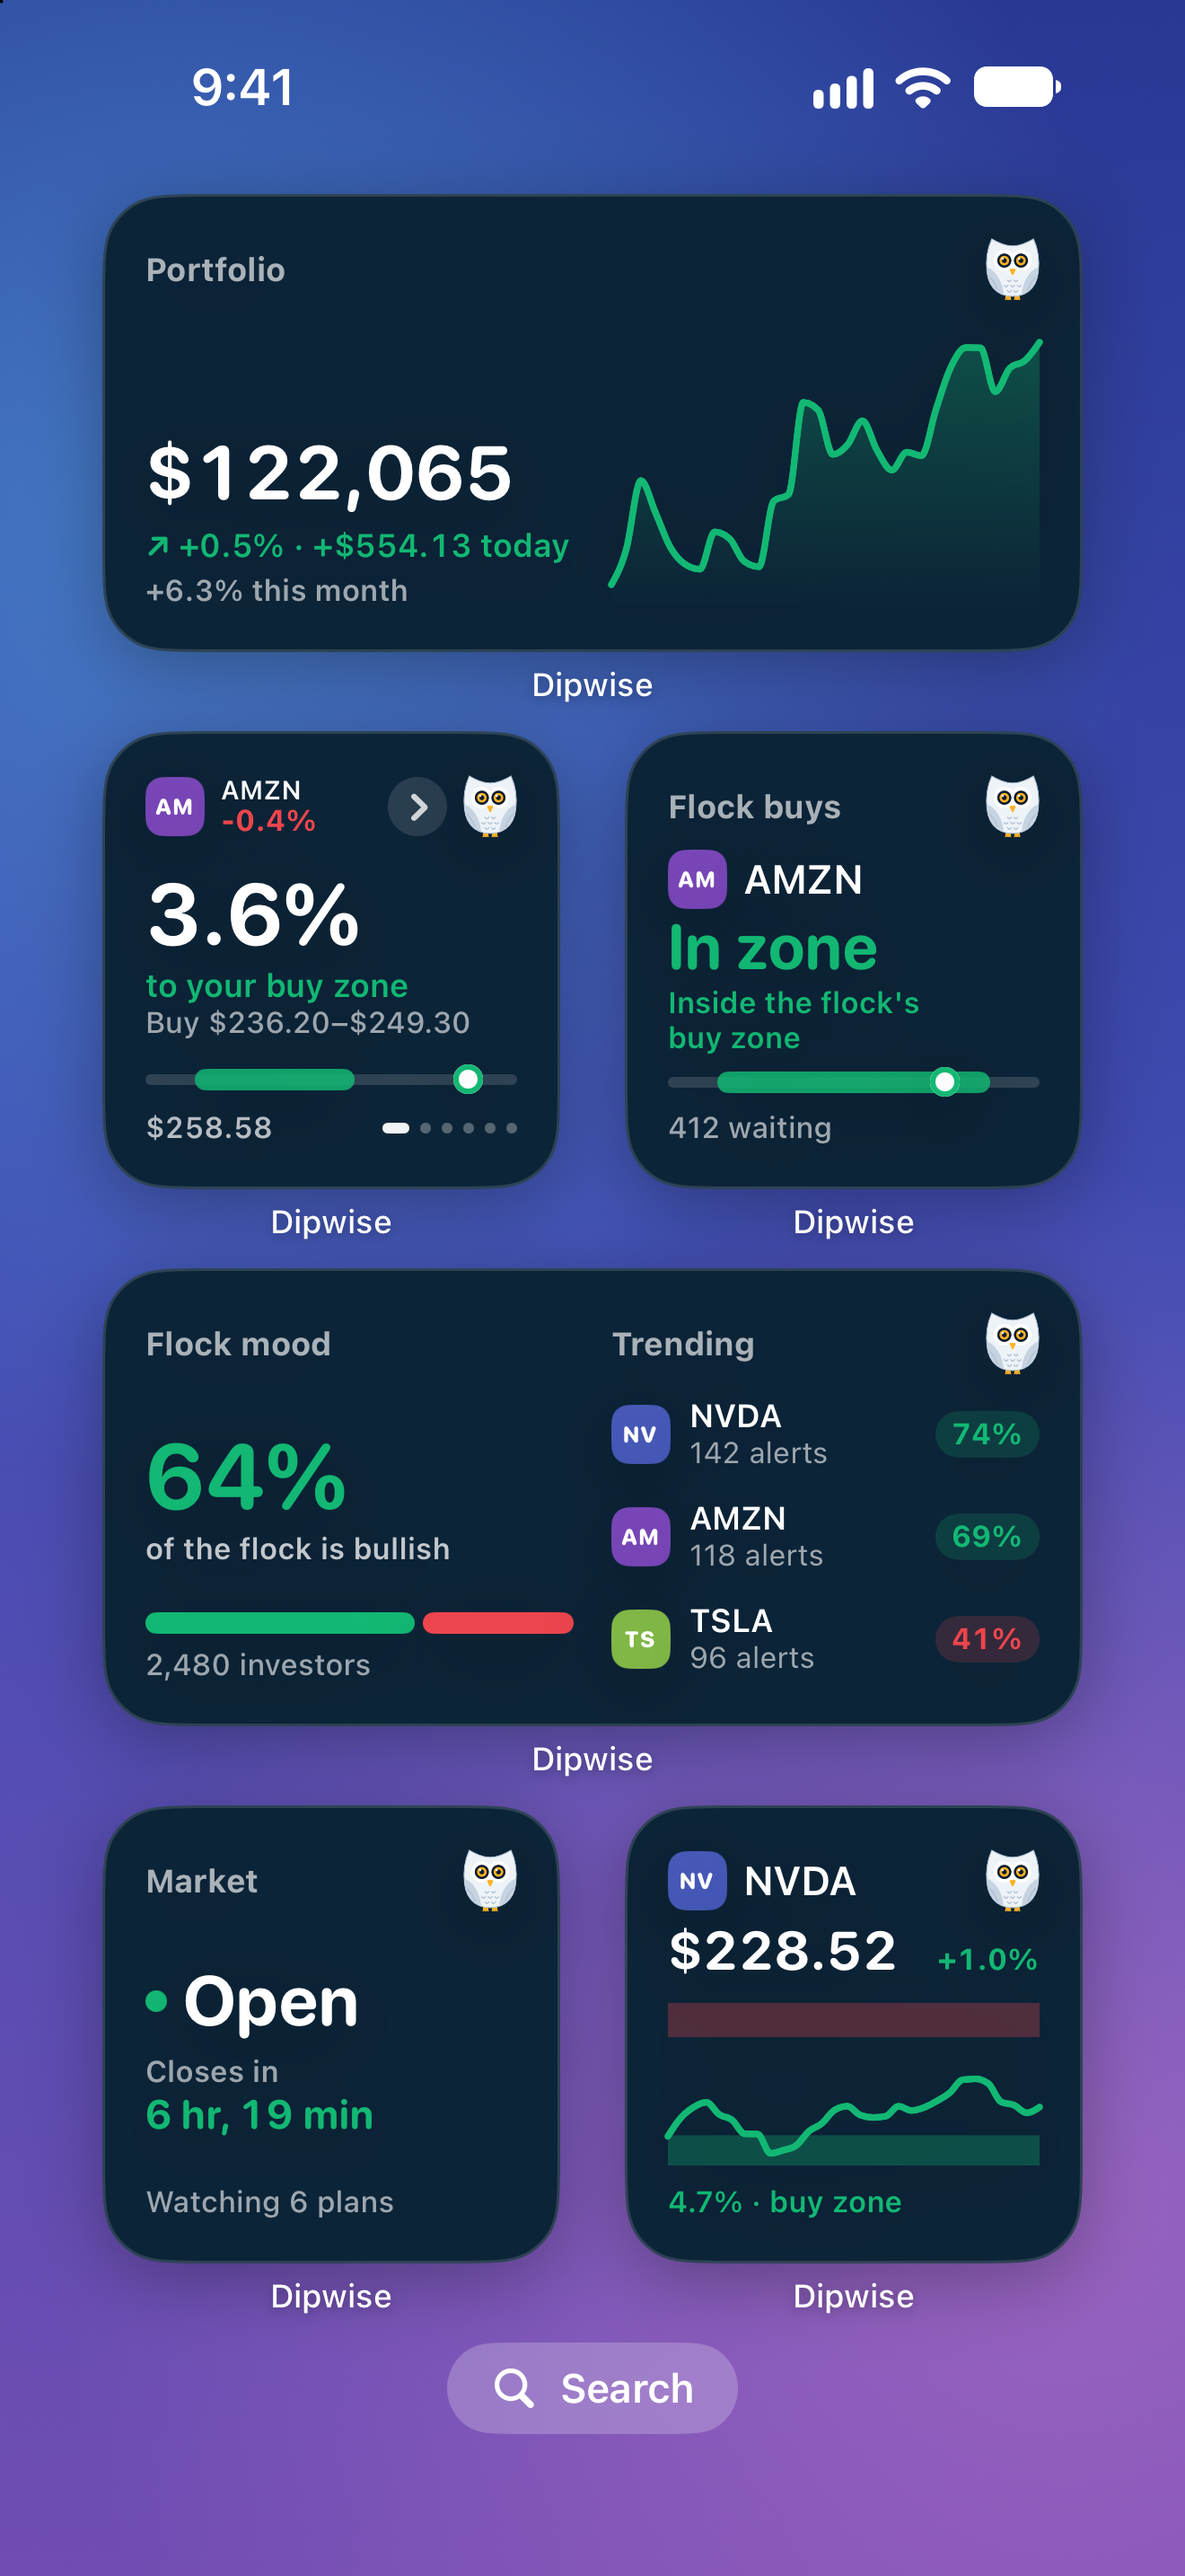
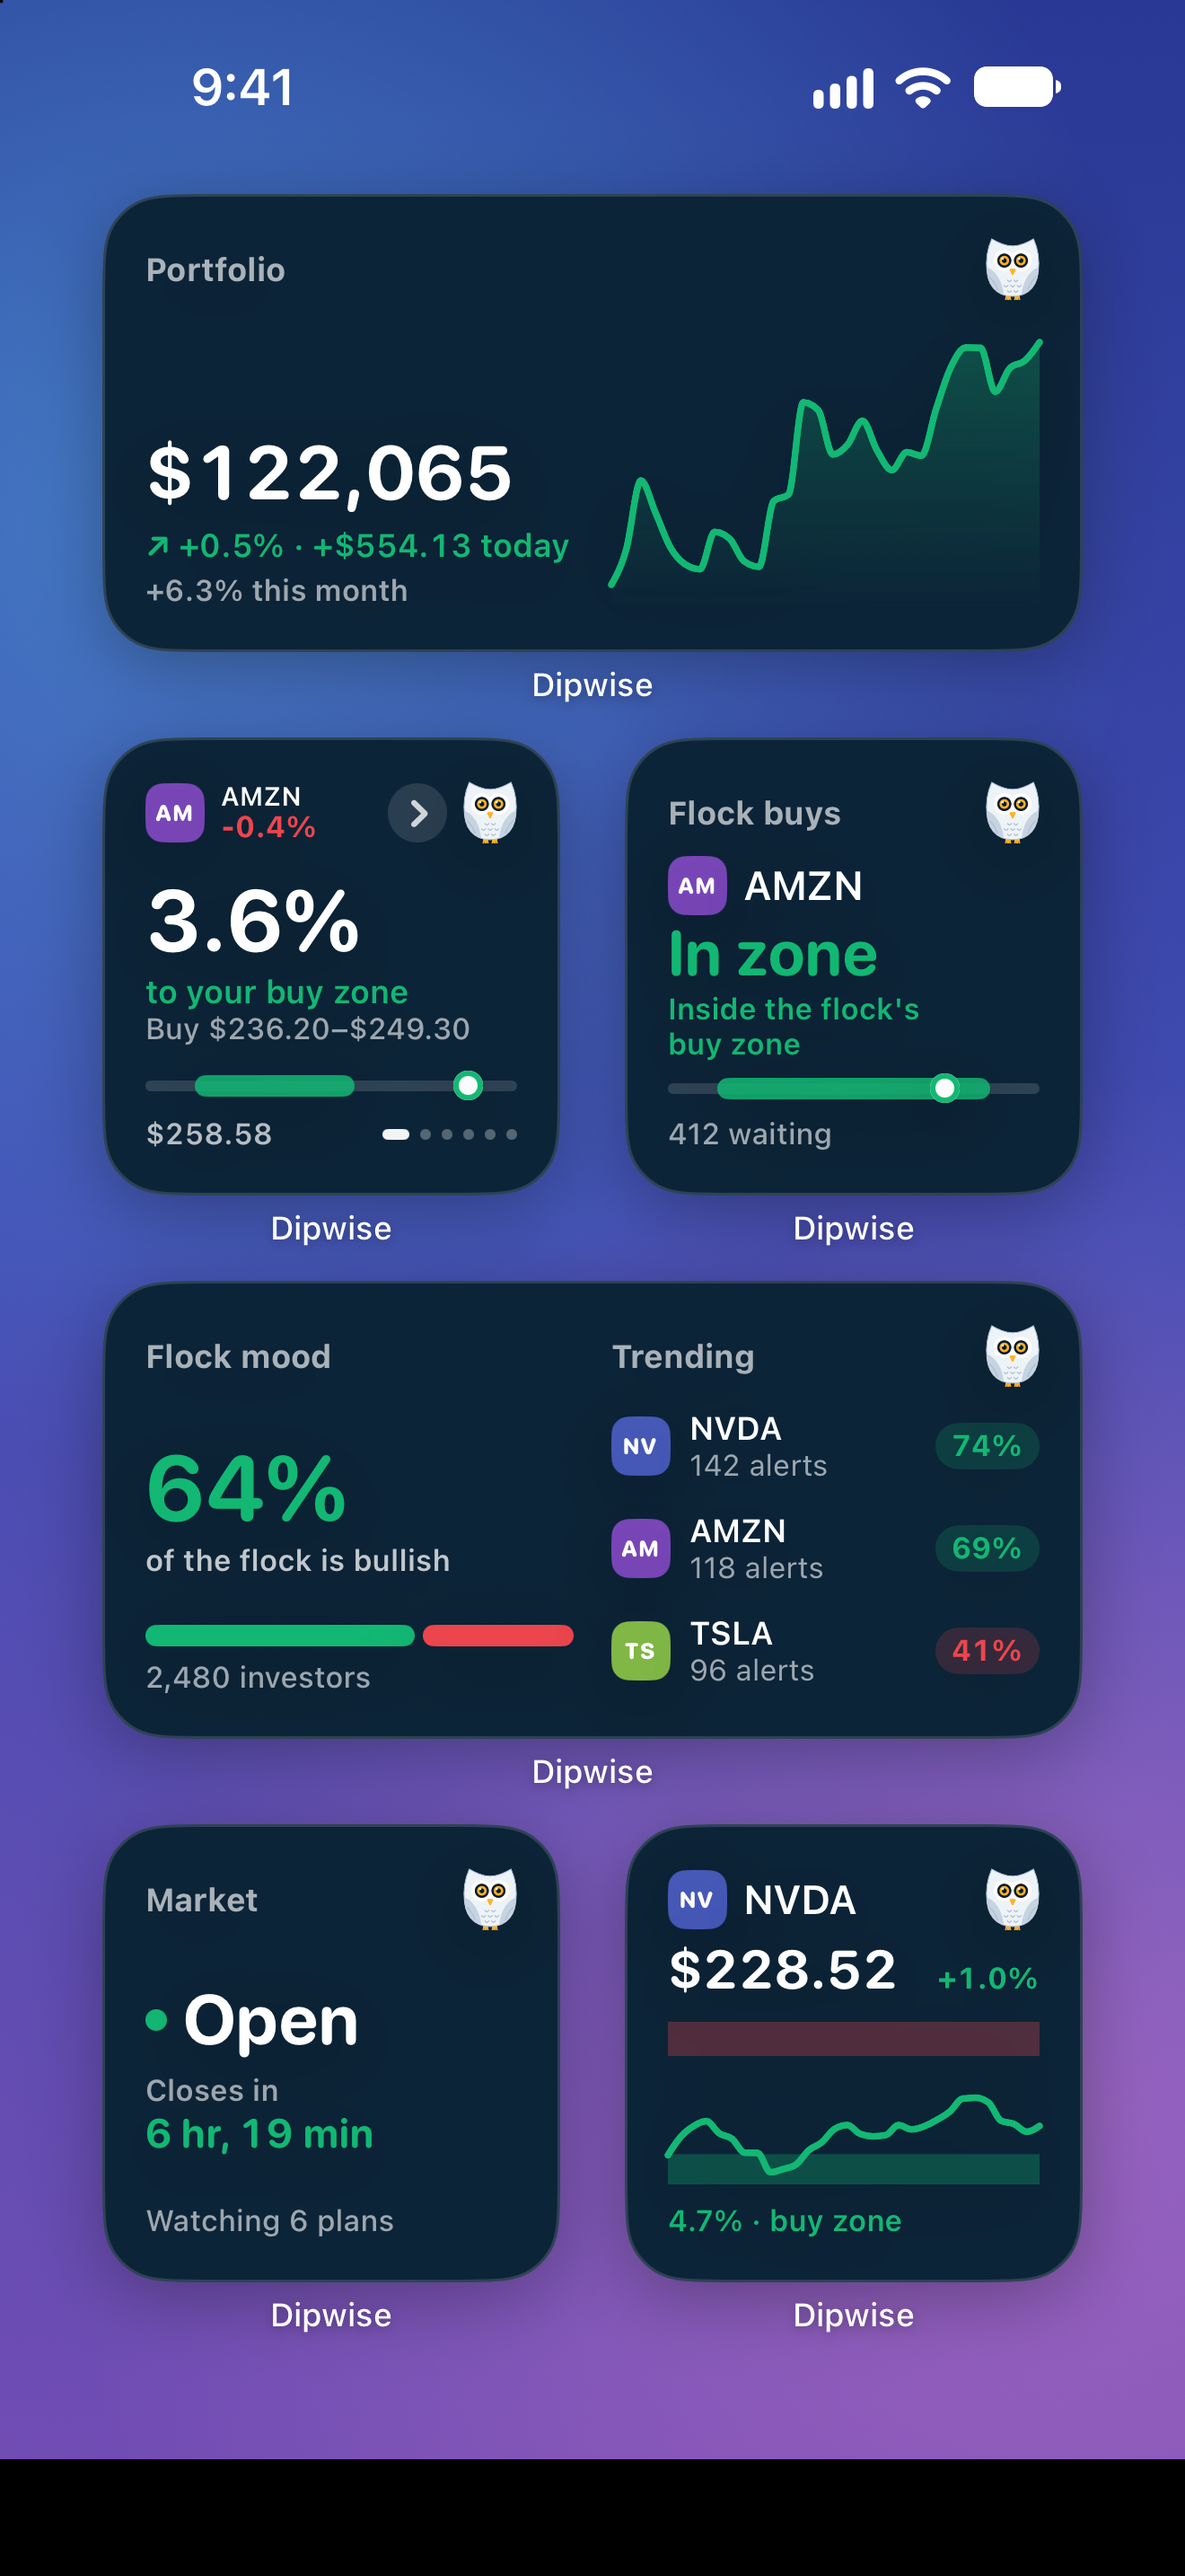
App Store set: whole, crisp cards lift off the odds, alert, and flock screens (rendered, not cropped); Duo turned like a product photo with a desk reflection; Apple Watch alone and large with its band; the original sleeping ending; no Search pill on the Home Screen; odds tabs render anywhere

Changed region(s): [[0.0, 0.2793, 1.0, 1.0]]

diff --git a/App/Views/Onboarding/MarketingRenders.swift b/App/Views/Onboarding/MarketingRenders.swift
@@ -58,6 +58,7 @@ struct MarketingRenders: View {
       await renderDesk()
       renderOdds()
       renderHint()
+      await renderCallouts()
     }
   }
 
@@ -198,13 +199,31 @@ struct MarketingRenders: View {
     guard let holding = holdings.first(where: { $0.symbol == "NVDA" }), let zone = holding.buyZone, let quote = quotes["NVDA"] else { return }
     let renderer = ImageRenderer(content:
       OddsForecastCard(symbol: "NVDA", quote: quote, buyZone: zone.rule, sellZone: holding.sellZone?.rule, isPro: true)
-        .frame(width: 402)
+        .frame(width: 400)
     )
     renderer.scale = 3
     guard let data = renderer.uiImage?.pngData() else { return }
     let url = URL.documentsDirectory.appending(path: "odds-card.png")
     try? data.write(to: url)
     saved.append(url.lastPathComponent)
+  }
+
+  /// The pieces the App Store screenshots lift out of the screen, rendered whole and crisp: the flock's fear and greed
+  /// card at the Flock's width, and the buy-zone notification as iOS shows it on the lock screen.
+  private func renderCallouts() async {
+    await flock.loadSentiment()
+    var images: [(String, AnyView, CGFloat)] = [("notification-card", AnyView(MarketingNotificationCard()), 412)]
+    if let sentiment = flock.sentiment {
+      images.append(("sentiment-card", AnyView(FlockSentimentCard(sentiment: sentiment, mine: nil)), 400))
+    }
+    for (name, view, width) in images {
+      let renderer = ImageRenderer(content: view.frame(width: width))
+      renderer.scale = 3
+      guard let data = renderer.uiImage?.pngData() else { continue }
+      let url = URL.documentsDirectory.appending(path: "\(name).png")
+      try? data.write(to: url)
+      saved.append(url.lastPathComponent)
+    }
   }
 
   private func render() {
@@ -258,6 +277,36 @@ struct MarketingRenders: View {
       try? data.write(to: url)
       saved.append(url.lastPathComponent)
     }
+  }
+}
+/// The buy-zone alert exactly as it lands on the lock screen: app icon, title, "now", and the plan, on iOS's light
+/// notification platter.
+private struct MarketingNotificationCard: View {
+  var body: some View {
+    HStack(alignment: .top, spacing: 12) {
+      Image(.appIconPreview)
+        .resizable()
+        .frame(width: 38, height: 38)
+        .clipShape(.rect(cornerRadius: 9, style: .continuous))
+      VStack(alignment: .leading, spacing: 1) {
+        HStack(spacing: 5) {
+          Text("NVDA entered your buy zone")
+            .font(.system(size: 15, weight: .semibold))
+          Spacer(minLength: 4)
+          Text("now")
+            .font(.system(size: 13))
+            .foregroundStyle(Color(white: 0.45))
+        }
+        Text("Now $211.38, inside $205.65–$217.10. Your plan: buy 3 shares.")
+          .font(.system(size: 15))
+          .fixedSize(horizontal: false, vertical: true)
+      }
+    }
+    .foregroundStyle(Color(white: 0.06))
+    .padding(.horizontal, 14)
+    .padding(.vertical, 12)
+    .background(Color(red: 0.95, green: 0.95, blue: 0.97), in: .rect(cornerRadius: 24, style: .continuous))
+    .environment(\.colorScheme, .light)
   }
 }
 #endif

diff --git a/App/Views/Stock/OddsForecastCard.swift b/App/Views/Stock/OddsForecastCard.swift
@@ -55,11 +55,25 @@ struct OddsForecastCard: View {
         }
 
         if buyZone != nil && sellZone != nil {
-          Picker("Zone", selection: $side.animation(.smooth)) {
-            Text("Buy zone").tag(TradeSide.buy)
-            Text("Sell zone").tag(TradeSide.sell)
+          HStack(spacing: 4) {
+            ForEach([TradeSide.buy, .sell], id: \.self) { option in
+              Button {
+                withAnimation(.smooth) { side = option }
+              } label: {
+                Text(option == .buy ? "Buy zone" : "Sell zone")
+                  .font(.subheadline.weight(.semibold))
+                  .foregroundStyle(side == option ? Brand.owlInk : .white.opacity(0.75))
+                  .frame(maxWidth: .infinity)
+                  .padding(.vertical, 7)
+                  .background(side == option ? AnyShapeStyle(option == .buy ? Brand.buy : Brand.sell) : AnyShapeStyle(.clear), in: .capsule)
+                  .contentShape(.capsule)
+              }
+              .buttonStyle(.plain)
+              .accessibilityAddTraits(side == option ? .isSelected : [])
+            }
           }
-          .pickerStyle(.segmented)
+          .padding(3)
+          .background(.white.opacity(0.08), in: .capsule)
         }
 
         VStack(alignment: .leading, spacing: 14) {

diff --git a/App/Views/Onboarding/MarketingHomeScreen.swift b/App/Views/Onboarding/MarketingHomeScreen.swift
@@ -50,7 +50,6 @@ struct MarketingHomeScreen: View {
             }
           }
           Spacer(minLength: 10)
-          searchPill
         }
         .padding(.top, 72)
         .padding(.bottom, 34)
@@ -117,13 +116,5 @@ struct MarketingHomeScreen: View {
     }
   }
 
-  private var searchPill: some View {
-    Label("Search", systemImage: "magnifyingglass")
-      .font(.system(size: 15, weight: .semibold))
-      .foregroundStyle(.white)
-      .padding(.horizontal, 16)
-      .padding(.vertical, 8)
-      .background(.white.opacity(0.22), in: .capsule)
-  }
 }
 #endif

diff --git a/Marketing/ScreenshotStudio/compose.py b/Marketing/ScreenshotStudio/compose.py
@@ -854,6 +854,43 @@ def callout(canvas, text, x, y, tip_x, tip_y, unit=1.0):
     canvas.alpha_composite(tail)
 
 
+def lift_over(canvas, card, at, k, box, scale=1.1, align="center"):
+    """Lays a crisp, whole render of a card exactly over where it sits on the device's screen, a little larger, so it
+    lifts off the glass instead of being a cropped copy."""
+    left, top = at(box[0], box[1])
+    right, bottom = at(box[2], box[3])
+    width = (right - left) * scale
+    card = card.convert("RGBA")
+    card = card.resize((round(width), round(card.height * width / card.width)), Image.LANCZOS)
+    radius = round(card.width * 0.06)
+    mask = rounded_mask(card.size, radius)
+    card.putalpha(Image.composite(card.split()[3], Image.new("L", card.size, 0), mask))
+    cx = (left + right) / 2
+    y = (top + bottom) / 2 - card.height / 2 if align == "center" else top - (card.height - (bottom - top)) * 0.15
+    shadowed(canvas, card, cx - card.width / 2, y, blur=46, offset=30, opacity=175)
+
+
+def yawed(device, depth=0.1, squeeze=0.94):
+    """Turns a device a little away from the viewer, like a product photo: the far edge shorter, the whole a touch
+    narrower."""
+    w, h = device.size
+    out_w = round(w * squeeze)
+    inset = round(h * depth / 2)
+    coefficients = perspective_coefficients([(0, 0), (out_w, inset), (out_w, h - inset), (0, h)], [(0, 0), (w, 0), (w, h), (0, h)])
+    return device.transform((out_w, h), Image.PERSPECTIVE, coefficients, Image.BICUBIC)
+
+
+def reflection(device, height_share=0.35, opacity=0.22):
+    """A soft mirror image fading into the desk under a standing device."""
+    flipped = device.transpose(Image.FLIP_TOP_BOTTOM).crop((0, 0, device.width, round(device.height * height_share)))
+    fade = Image.new("L", flipped.size, 0)
+    fd = ImageDraw.Draw(fade)
+    for y in range(flipped.height):
+        fd.line([(0, y), (flipped.width, y)], fill=round(255 * opacity * (1 - y / flipped.height) ** 1.6))
+    flipped.putalpha(Image.composite(flipped.split()[3], Image.new("L", flipped.size, 0), fade))
+    return flipped
+
+
 def iphone_story(raw, raw_dir):
     """Ten pages, one story, told by Dippy on one night sky. The icon's glowing price line runs through all of them:
     it dips under the alert, climbs through the features, and ends where Dippy falls asleep on top of your iPhone.
@@ -896,54 +933,53 @@ def iphone_story(raw, raw_dir):
     fingertip(story.canvas, hx, hy)
     callout(story.canvas, "Drag to your price", min(hx - 360, x(1, W - 140) - 620), hy - 230, hx, hy)
 
-    # 3 · The odds, lifted out of the stock screen.
-    page(2, "I'll show your\n*odds* first.", raw("iphone-odds"), "look-left")
-    popout(story.canvas, raw("iphone-odds"), (110, 1400, 1210, 1810), x(2, W / 2), 1800, 1220)
+    # 3 · The odds card, lifting off the stock screen.
+    at, k = page(2, "I'll show your\n*odds* first.", raw("iphone-odds"), "look-left")
+    lift_over(story.canvas, raw("odds-card"), at, k, (60, 384, 1260, 2205), scale=1.12)
 
     # 4 · The alert, exactly as iOS shows it, lifted off the lock screen.
     at, k = page(3, "Get alerted the\n*moment it dips*.", raw("scene-lock"), "wings")
-    _, ny = at(0, 700)
-    popout(story.canvas, raw("scene-lock"), (36, 700, 1284, 945), x(3, W / 2), ny - 40, 1240)
+    lift_over(story.canvas, raw("notification-card"), at, k, (42, 708, 1278, 936), scale=1.18)
     line.dot(x(3, 660), rings=True)
 
     # 5 · The flock's mood, lifted out of the Flock.
-    page(4, "Meet the *flock*.\nAll anonymous.", raw("iphone-flock"), "wink", owl_side=-1)
-    popout(story.canvas, raw("iphone-flock"), (60, 1705, 1260, 2380), x(4, W / 2), 1830, 1180)
+    at, k = page(4, "Meet the *flock*.\nAll anonymous.", raw("iphone-flock"), "wink", owl_side=-1)
+    lift_over(story.canvas, raw("sentiment-card"), at, k, (60, 1710, 1260, 2868), scale=1.1, align="top")
 
     page(5, "*28* alerts,\nin plain words.", fix_iphone_clock(raw("iphone-plan-smart")), "blush")
     page(6, "I live on your\n*Home Screen*.", raw("iphone-home-widgets"), "look-down", owl_side=-1)
 
-    # 8 · iPhone Duo on a desk, its outer display a live stock tracker, straight on so every number reads.
+    # 8 · iPhone Duo standing on the desk, turned a little like a product photo, reflected in the desk.
     story.title(7, "Your stocks,\n*live on your desk*.", 170, 140)
     duo = Bezel("iphone-duo-outer-landscape", upside_down=True)
-    stand, _ = duo.device(raw("desk-mode"), 880)
-    stand_bottom = line.y(x(7, W / 2)) + 8
+    front, _ = duo.device(raw("desk-mode"), 960)
+    stand = yawed(front, depth=0.08, squeeze=0.96)
+    stand_bottom = 1720
     top = stand_bottom - stand.height
-    desk_shadow(story.canvas, x(7, W / 2), stand_bottom, stand.width * 0.92)
-    story.place(7, stand, W / 2, top, shadow=0.6)
-    perch(story.canvas, raw_dir, "look-down", x(7, W / 2 - 330), top + 14, owl_height)
-    sticker(story.canvas, x(7, W / 2), stand_bottom + 170, ["Optimized for iPhone Duo"])
+    shine = reflection(stand)
+    paste_clipped(story.canvas, shine, round(x(7, (W - shine.width) / 2)), round(stand_bottom + 6))
+    story.place(7, stand, W / 2, top, shadow=0.55)
+    perch(story.canvas, raw_dir, "look-down", x(7, W / 2 - 300), top + 14, owl_height)
+    sticker(story.canvas, x(7, W / 2), stand_bottom + 380, ["Optimized for iPhone Duo"])
 
-    # 9 · iPhone and Apple Watch together: the watch in front, close up, with no band to crowd it.
+    # 9 · Apple Watch on its own: big, with its band running off the page, the app filling the display.
     story.title(8, "Or keep me\non your *wrist*.", 170, 140)
-    page(8, None, raw("iphone-home"), "look-down", owl_side=-1, top=760, height=1620, cx=W / 2 - 250)
     wrist = Bezel("watch-series-11")
-    watch_device, k = wrist.device(watch_screen(raw("watch-today")), 1500)
-    case = watch_device.crop((0, round(150 * k), watch_device.width, round(730 * k)))
-    fade = Image.new("L", case.size, 255)
-    fd = ImageDraw.Draw(fade)
-    span = round(46 * k)
+    watch_device, k = wrist.device(watch_screen(raw("watch-today")), 2050)
+    band_fade = Image.new("L", watch_device.size, 255)
+    bf = ImageDraw.Draw(band_fade)
+    span = round(watch_device.height * 0.12)
     for i in range(span):
-        fd.line([(0, i), (case.width, i)], fill=round(255 * i / span))
-        fd.line([(0, case.height - 1 - i), (case.width, case.height - 1 - i)], fill=round(255 * i / span))
-    case.putalpha(Image.composite(case.split()[3], Image.new("L", case.size, 0), fade))
-    story.place(8, case, W / 2 + 270, 1420)
+        bf.line([(0, i), (watch_device.width, i)], fill=round(255 * i / span))
+    watch_device.putalpha(Image.composite(watch_device.split()[3], Image.new("L", watch_device.size, 0), band_fade))
+    story.place(8, watch_device, W / 2 - 16, 600)
 
-    # 10 · Good night: the real app after the bell, Dippy asleep on your iPhone under the moon.
+    # 10 · Asleep under the moon, on the same glowing line.
     sky = story.canvas_sky
-    sky.moon(round(x(9, 200)), 610, 84)
-    page(9, "Sleep well.\n*I'm on watch.*", raw("iphone-night"), "sleep")
-    sleepy_zs(story.canvas, x(9, W / 2 + 400), 640)
+    sky.moon(round(x(9, W - 250)), 690, 96)
+    story.title(9, "Sleep well.\n*I'm on watch.*", 170, 140)
+    line.owl(raw_dir, "sleep", x(9, 640), 760)
+    sleepy_zs(story.canvas, x(9, 880), 1240)
 
     frames = story.frames(["01-meet-dippy", "02-buy-zone", "03-odds", "04-alert", "05-flock", "06-smart-alerts",
                            "07-widgets", "08-desk-mode", "09-apple-watch", "10-sleep-well"])

diff --git a/Marketing/AppStore/Listing.md b/Marketing/AppStore/Listing.md
@@ -113,14 +113,14 @@ The captures show the app as it ships with the Flock live. **Before submitting, 
 |---|------|------------|-------|
 | 1 | 01-meet-dippy.png | Hi, I'm Dippy. I watch the dips. | No login · No ads · Any broker, then Home |
 | 2 | 02-buy-zone.png | Show me where you'd buy. | A finger on the zone's handle, "Drag to your price" |
-| 3 | 03-odds.png | I'll show your odds first. | The stock screen, with the odds sentence and rings lifted out, larger |
-| 4 | 04-alert.png | Get alerted the moment it dips. | The lock screen, the alert ("buy 3 shares") lifted out exactly as iOS shows it |
-| 5 | 05-flock.png | Meet the flock. All anonymous. | The Flock, its Fear & Greed gauge lifted out |
+| 3 | 03-odds.png | I'll show your odds first. | The stock screen, its Your Odds card lifting off the glass |
+| 4 | 04-alert.png | Get alerted the moment it dips. | The lock screen, the alert ("buy 3 shares") lifting off it exactly as iOS shows it |
+| 5 | 05-flock.png | Meet the flock. All anonymous. | The Flock, its Fear & Greed card lifting off the glass |
 | 6 | 06-smart-alerts.png | 28 alerts, in plain words. | Smart alerts, Dippy blushing |
 | 7 | 07-widgets.png | I live on your Home Screen. | Six widgets |
-| 8 | 08-desk-mode.png | Your stocks, live on your desk. | iPhone Duo's outer display, "Optimized for iPhone Duo" |
-| 9 | 09-apple-watch.png | Or keep me on your wrist. | iPhone and Apple Watch Series 11 together |
-| 10 | 10-sleep-well.png | Sleep well. I'm on watch. | The app after the bell, Dippy asleep on the iPhone under the moon |
+| 8 | 08-desk-mode.png | Your stocks, live on your desk. | iPhone Duo standing on a desk, turned like a product photo, "Optimized for iPhone Duo" |
+| 9 | 09-apple-watch.png | Or keep me on your wrist. | Apple Watch Series 11, large, with its band |
+| 10 | 10-sleep-well.png | Sleep well. I'm on watch. | Dippy asleep on the glowing line under the moon |
 
 Apple scales the 6.9-inch set down for every smaller iPhone. `iPhone-6.5/` has the same images at 1284 × 2778.
 
